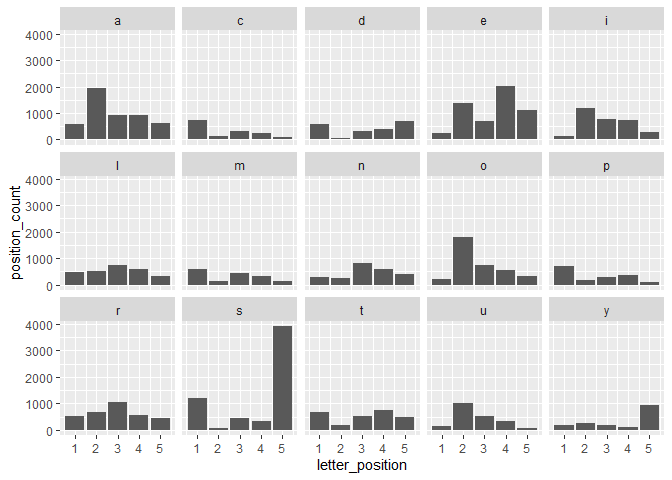
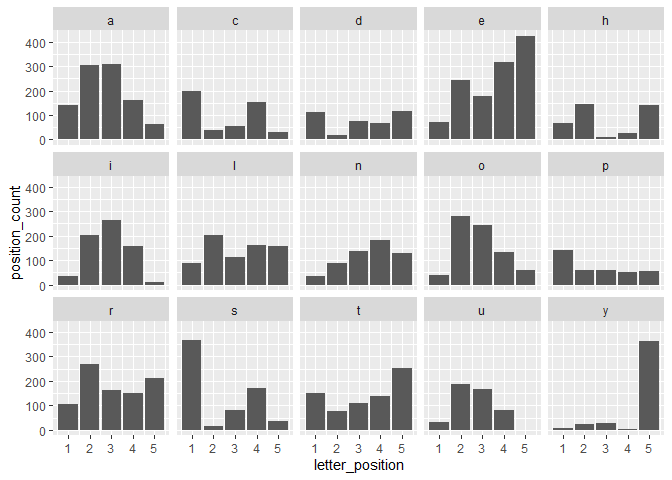
grabbed the answers from the source code as well

diff --git a/README.md b/README.md
@@ -73,13 +73,28 @@ The rest of that pipe chain above parses that long list of words into
 individual words separated by spaces, and there we go, all 10,657 words
 that are acceptable guesses in Octordle.
 
+The source code also has the list of all possible words that can be the
+answers to each puzzle, so let’s grab that too.
+
+``` r
+octordle_answers <- octordle_source_code %>%
+    str_match('answers\\s=\\s"(.*?)"') %>%
+    pluck(2) %>%
+    str_split(" ") %>%
+    pluck(1)
+
+str(octordle_answers)
+```
+
+    ##  chr [1:2315] "aback" "abase" "abate" "abbey" "abbot" "abhor" "abide" ...
+
 ## Finding single opener words
 
-Now that we have the list of allowable Octordle words, let’s cut that
+Now that we have the list of possible Octordle answers, let’s cut that
 list down to the words that only contain the 15 most common letters in
 the set. First, we’ll have to split each word up into separate letters.
-I’m also going to take this opportunity to convert this big character
-vector into a data frame, so that it’s easier to work with.
+I’m also going to take this opportunity to convert those big character
+vectors into data frames, so that they’re easier to work with.
 
 ``` r
 split_words <- octordle_words %>%
@@ -89,28 +104,32 @@ split_words <- octordle_words %>%
     # five-character vector.
     mutate(letters=map(words, ~str_split(.x, "")[[1]]))
 
-split_words
+split_answers <- octordle_answers %>%
+    tibble(words=.) %>%
+    mutate(letters=map(words, ~str_split(.x, "")[[1]]))
+
+split_answers
 ```
 
-    ## # A tibble: 10,657 x 2
+    ## # A tibble: 2,315 x 2
     ##    words letters  
     ##    <chr> <list>   
-    ##  1 aahed <chr [5]>
-    ##  2 aalii <chr [5]>
-    ##  3 aargh <chr [5]>
-    ##  4 aarti <chr [5]>
-    ##  5 abaca <chr [5]>
-    ##  6 abaci <chr [5]>
-    ##  7 abacs <chr [5]>
-    ##  8 abaft <chr [5]>
-    ##  9 abaka <chr [5]>
-    ## 10 abamp <chr [5]>
-    ## # ... with 10,647 more rows
+    ##  1 aback <chr [5]>
+    ##  2 abase <chr [5]>
+    ##  3 abate <chr [5]>
+    ##  4 abbey <chr [5]>
+    ##  5 abbot <chr [5]>
+    ##  6 abhor <chr [5]>
+    ##  7 abide <chr [5]>
+    ##  8 abled <chr [5]>
+    ##  9 abode <chr [5]>
+    ## 10 abort <chr [5]>
+    ## # ... with 2,305 more rows
 
 And now, grab that column full of letters and count them.
 
 ``` r
-letter_count <- split_words %>%
+letter_count <- split_answers %>%
     unnest(letters) %>%
     count(letters, name="appearances") %>%
     arrange(desc(appearances)) %>%
@@ -122,21 +141,21 @@ letter_count
     # A tibble: 15 x 2
        letters appearances
        <chr>         <int>
-     1 s              5996
-     2 e              5429
-     3 a              5011
-     4 o              3684
-     5 r              3259
-     6 i              3088
-     7 l              2652
-     8 t              2566
-     9 n              2377
-    10 d              2060
-    11 u              2044
-    12 m              1660
-    13 p              1652
-    14 y              1649
-    15 c              1551
+     1 e              1233
+     2 a               979
+     3 r               899
+     4 o               754
+     5 t               729
+     6 l               719
+     7 i               671
+     8 s               669
+     9 n               575
+    10 c               477
+    11 u               467
+    12 y               425
+    13 d               393
+    14 h               389
+    15 p               367
 
 ``` r
 best_letters <- letter_count$letters
@@ -153,24 +172,24 @@ best_words <- split_words %>%
 best_words
 ```
 
-    ## # A tibble: 2,331 x 2
+    ## # A tibble: 2,233 x 2
     ##    words letters  
     ##    <chr> <list>   
     ##  1 acers <chr [5]>
-    ##  2 acids <chr [5]>
-    ##  3 acidy <chr [5]>
-    ##  4 acmes <chr [5]>
-    ##  5 acned <chr [5]>
-    ##  6 acnes <chr [5]>
-    ##  7 acold <chr [5]>
-    ##  8 acred <chr [5]>
-    ##  9 acres <chr [5]>
-    ## 10 acros <chr [5]>
-    ## # ... with 2,321 more rows
+    ##  2 ached <chr [5]>
+    ##  3 aches <chr [5]>
+    ##  4 acids <chr [5]>
+    ##  5 acidy <chr [5]>
+    ##  6 acned <chr [5]>
+    ##  7 acnes <chr [5]>
+    ##  8 acold <chr [5]>
+    ##  9 acred <chr [5]>
+    ## 10 acres <chr [5]>
+    ## # ... with 2,223 more rows
 
 ## Finding opener word combinations
 
-We’ve now cut the word list down from 10,657 down to 2,331. Now that we
+We’ve now cut the word list down from 10,657 down to 2,333. Now that we
 have a list of words that contain 5 of the 15 most common letters in the
 acceptable word list, we need to put them together in three word sets
 that fit together and contain all 15. There are a lot of really
@@ -258,7 +277,7 @@ cleaned_openers <- opener_combinations %>%
 
 This pivot/unnest combination has transformed this:
 
-    ## # A tibble: 27,154 x 3
+    ## # A tibble: 23,620 x 3
     ##    word_1    word_2    word_3   
     ##    <list>    <list>    <list>   
     ##  1 <chr [5]> <chr [5]> <chr [5]>
@@ -271,11 +290,11 @@ This pivot/unnest combination has transformed this:
     ##  8 <chr [5]> <chr [5]> <chr [5]>
     ##  9 <chr [5]> <chr [5]> <chr [5]>
     ## 10 <chr [5]> <chr [5]> <chr [5]>
-    ## # ... with 27,144 more rows
+    ## # ... with 23,610 more rows
 
 into this:
 
-    ## # A tibble: 407,310 x 4
+    ## # A tibble: 354,300 x 4
     ##    opener_id word_num letters letter_position
     ##        <int> <chr>    <chr>             <int>
     ##  1         1 word_1   a                     1
@@ -284,17 +303,17 @@ into this:
     ##  4         1 word_1   r                     4
     ##  5         1 word_1   s                     5
     ##  6         1 word_2   d                     1
-    ##  7         1 word_2   u                     2
-    ##  8         1 word_2   p                     3
-    ##  9         1 word_2   l                     4
-    ## 10         1 word_2   y                     5
-    ## # ... with 407,300 more rows
+    ##  7         1 word_2   h                     2
+    ##  8         1 word_2   u                     3
+    ##  9         1 word_2   t                     4
+    ## 10         1 word_2   i                     5
+    ## # ... with 354,290 more rows
 
 Now, with a tidy dataset to work with, how often does each of the top-15
 best letters show up in each position?
 
 ``` r
-best_letters_positions <- split_words %>%
+best_letters_positions <- split_answers %>%
     unnest(letters) %>%
     group_by(words) %>%
     mutate(letter_position=row_number()) %>%
@@ -309,16 +328,16 @@ best_letters_positions
     ## # A tibble: 75 x 3
     ##    letters letter_position position_count
     ##    <chr>             <int>          <int>
-    ##  1 a                     1            596
-    ##  2 a                     2           1959
-    ##  3 a                     3            929
-    ##  4 a                     4            911
-    ##  5 a                     5            616
-    ##  6 c                     1            724
-    ##  7 c                     2            136
-    ##  8 c                     3            336
-    ##  9 c                     4            259
-    ## 10 c                     5             96
+    ##  1 a                     1            141
+    ##  2 a                     2            304
+    ##  3 a                     3            307
+    ##  4 a                     4            163
+    ##  5 a                     5             64
+    ##  6 c                     1            198
+    ##  7 c                     2             40
+    ##  8 c                     3             56
+    ##  9 c                     4            152
+    ## 10 c                     5             31
     ## # ... with 65 more rows
 
 ``` r
@@ -348,42 +367,22 @@ best_openers <- cleaned_openers %>%
     summarize(opener=paste(words, collapse="/"), .groups="drop") %>%
     arrange(desc(position_sum))
 
-best_openers %>%
-    filter(position_sum==max(position_sum)) %>%
-    kable()
+best_openers
 ```
 
-| opener_id | position_sum | opener            |
-|----------:|-------------:|:------------------|
-|      3135 |        18454 | CALID/MONTY/PURES |
-|      3145 |        18454 | CALID/MORES/PUNTY |
-|      3152 |        18454 | CALID/MURES/PONTY |
-|      4103 |        18454 | CANID/MOLES/PURTY |
-|      4112 |        18454 | CANID/MULES/PORTY |
-|      4113 |        18454 | CANID/MULEY/PORTS |
-|      4283 |        18454 | CANTS/MURID/POLEY |
-|      4390 |        18454 | CANTY/MOLED/PURIS |
-|      4413 |        18454 | CANTY/MURED/POLIS |
-|      4415 |        18454 | CANTY/MURID/POLES |
-|      4980 |        18454 | CARED/MONTY/PULIS |
-|      8844 |        18454 | COLED/MANIS/PURTY |
-|      8845 |        18454 | COLED/MANTY/PURIS |
-|      8910 |        18454 | COLES/MARID/PUNTY |
-|      8914 |        18454 | COLES/MURID/PANTY |
-|      8942 |        18454 | COLEY/MARID/PUNTS |
-|      8953 |        18454 | COLEY/MURID/PANTS |
-|      9480 |        18454 | CONED/MALIS/PURTY |
-|      9481 |        18454 | CONED/MALTY/PURIS |
-|     10160 |        18454 | CORED/MALIS/PUNTY |
-|     10162 |        18454 | CORED/MANTY/PULIS |
-|     12526 |        18454 | CULTS/MARID/PONEY |
-|     12619 |        18454 | CULTY/MANIS/PORED |
-|     12626 |        18454 | CULTY/MARID/PONES |
-|     13165 |        18454 | CUNTS/MARID/POLEY |
-|     13650 |        18454 | CURED/MALIS/PONTY |
-|     13656 |        18454 | CURED/MANTY/POLIS |
-|     13672 |        18454 | CURED/MONTY/PALIS |
+    ## # A tibble: 23,620 x 3
+    ##    opener_id position_sum opener           
+    ##        <int>        <int> <chr>            
+    ##  1     13321         3546 DHOLE/PRICY/SAUNT
+    ##  2      4462         3538 CHILE/DRANT/SOUPY
+    ##  3     10064         3531 CRUET/POIND/SHALY
+    ##  4      9312         3524 CRAPY/DHOLE/SUINT
+    ##  5      7497         3476 COADY/PRUNT/SHIEL
+    ##  6      5318         3467 CHODE/PARLY/SUINT
+    ##  7     11399         3448 CURET/POIND/SHALY
+    ##  8      6758         3447 CLARY/POIND/SHUTE
+    ##  9     15749         3443 DUNCH/PRATE/SOILY
+    ## 10      3749         3434 CHAPE/DRONY/SLUIT
+    ## # ... with 23,610 more rows
 
-All 28 of these openers are equally good at putting letters in the right
-place. For my money, the one that’s easiest to remember is
-**CANID/MOLES/PURTY**.
+And there we have it, **DHOLE/PRICY/SAUNT**.
